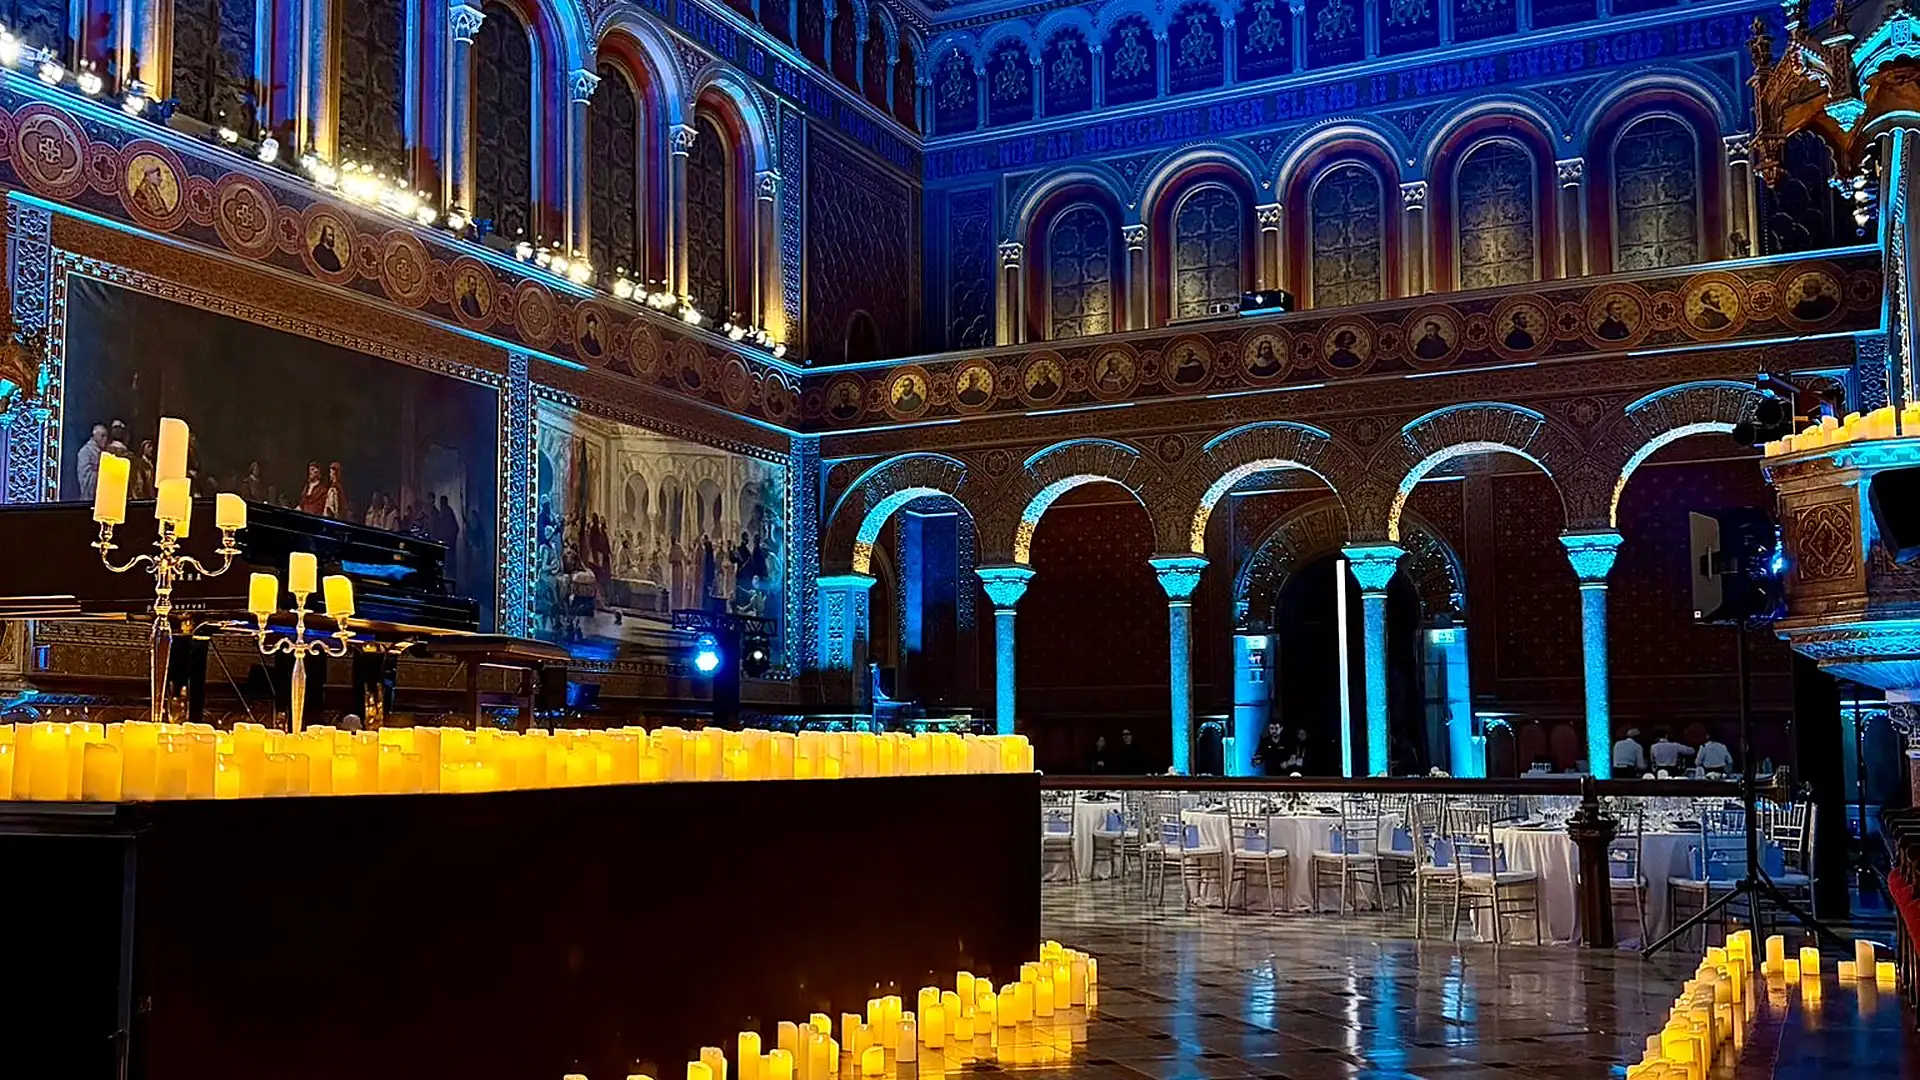
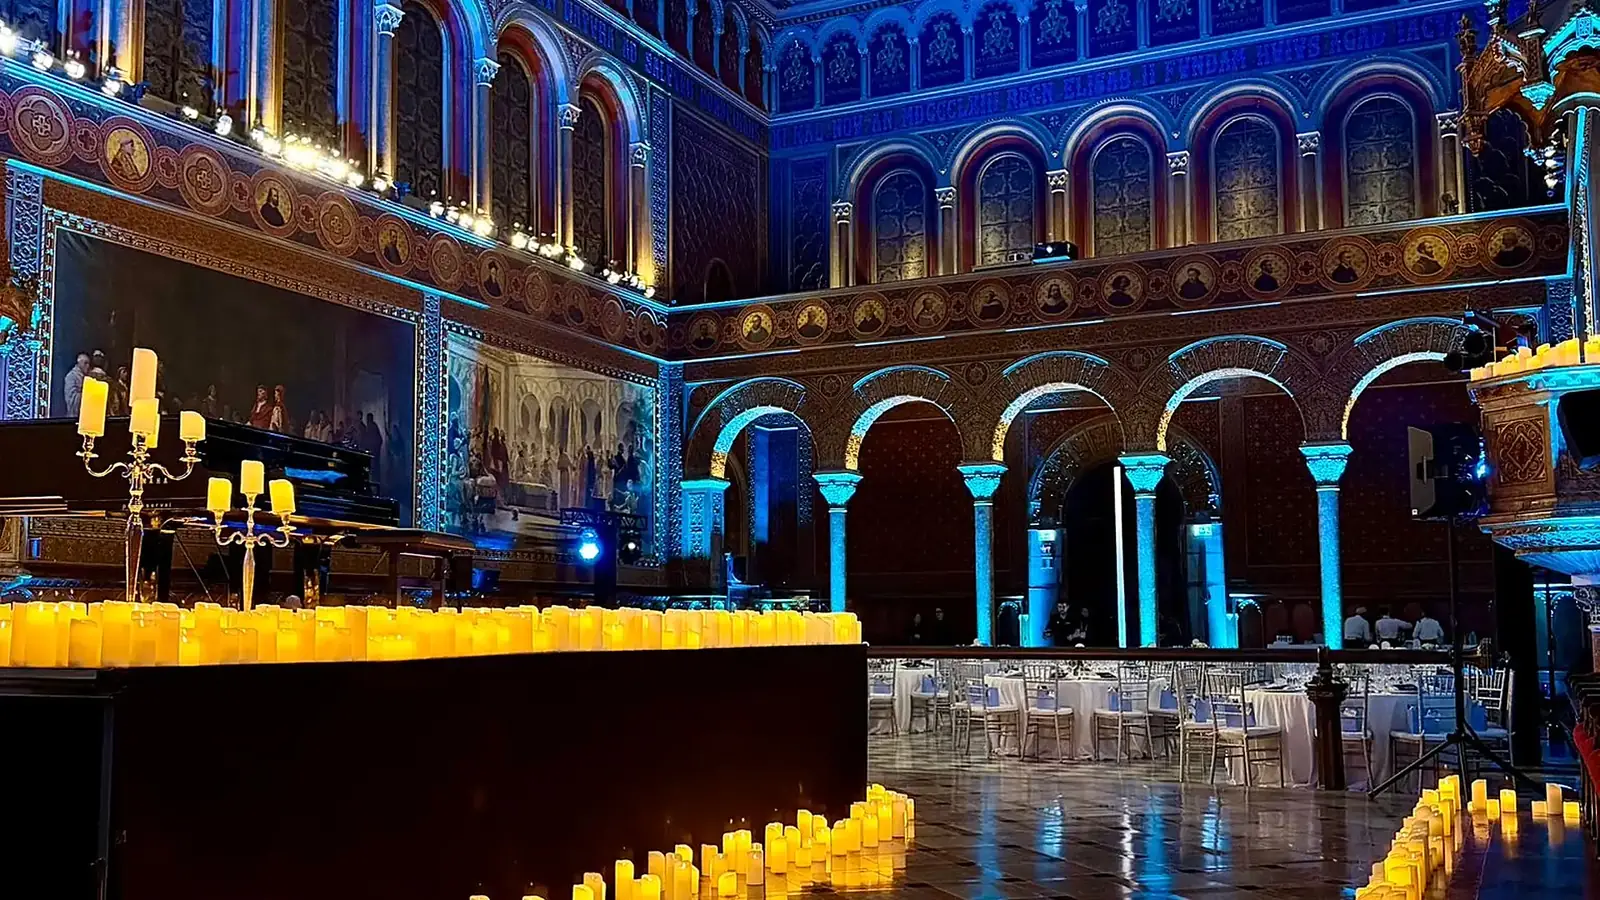
Mejoras portada: fotos en Proyectos, animaciones más rápidas, barra inferior solo móvil sin WhatsApp, portada sin botones, marcas reducidas, títulos genéricos y hero más ligero

diff --git a/index.html b/index.html
@@ -37,7 +37,8 @@
 <link rel="stylesheet" href="/elegante.css?v=40">
 <link rel="stylesheet" href="/ds-motion.css?v=20261016">
 <link rel="stylesheet" href="/ds-show.css?v=20261017">
-<link rel="preload" as="image" href="/portfolio-video-candlelight-poster.webp">
+<link rel="preload" as="image" href="/hero-sala-velas-m.webp" media="(max-width: 760px)" fetchpriority="high">
+<link rel="preload" as="image" href="/hero-sala-velas.webp" media="(min-width: 761px)" fetchpriority="high">
 <script type="application/ld+json">
     {
       "@context": "https://schema.org",
@@ -159,10 +160,6 @@
         <div class="reel-meta-l">
           <p>Escenarios, sonido, iluminación y pantallas LED, con técnicos propios si los necesitas. Base en Barcelona, equipo en toda España.</p>
         </div>
-        <div class="reel-btns">
-          <a class="btn btn--gold reel-cta" href="/simulador.html">Configura tu evento <svg viewBox="0 0 16 16" aria-hidden="true"><path d="M1 8h13M9 3l5 5-5 5" fill="none" stroke="currentColor" stroke-width="1.4"/></svg></a>
-          <a class="btn reel-cta2" href="/proyectos.html">Ver proyectos</a>
-        </div>
       </div>
     </div>
   </div>
@@ -183,10 +180,10 @@
   <div class="wrap">
     <span class="mono reelrow-t">Showreel</span>
     <ul class="reelrow-l">
-      <li><a href="/proyectos.html"><img src="/portfolio-video-candlelight-poster.webp" alt="Concierto Candlelight en espacio histórico" loading="lazy" decoding="async"><span>Candlelight</span></a></li>
+      <li><a href="/proyectos.html"><img src="/portfolio-video-candlelight-poster.webp" alt="Concierto a la luz de las velas en un espacio histórico" loading="lazy" decoding="async"><span>Concierto con velas</span></a></li>
       <li><a href="/proyectos.html"><img src="/portfolio-video-fiesta-poster.webp" alt="Fiesta con iluminación en directo" loading="lazy" decoding="async"><span>Fiesta en directo</span></a></li>
       <li><a href="/proyectos.html"><img src="/portfolio-video-congreso-poster.webp" alt="Escenario de congreso" loading="lazy" decoding="async"><span>Congreso</span></a></li>
-      <li><a href="/proyectos.html"><img src="/portfolio-video-fashionweek-poster.webp" alt="080 Barcelona Fashion Week" loading="lazy" decoding="async"><span>080 Fashion Week</span></a></li>
+      <li><a href="/proyectos.html"><img src="/portfolio-video-fashionweek-poster.webp" alt="Photocall y pasarela de un desfile de moda" loading="lazy" decoding="async"><span>Desfile de moda</span></a></li>
     </ul>
   </div>
 </section>
@@ -225,8 +222,8 @@
 
 <section class="sec brn" aria-labelledby="brn-t">
   <div class="wrap brn-h"><h2 class="brn-t mono" id="brn-t">Trabajamos con equipos de las mejores marcas</h2><a class="link" href="/marcas-y-equipos-tecnicos.html">Ver material técnico <svg viewBox="0 0 16 16" aria-hidden="true"><path d="M1 8h13M9 3l5 5-5 5" fill="none" stroke="currentColor" stroke-width="1.4"/></svg></a></div>
-  <div class="mq"><ul class="mq-t"><li>d&amp;b audiotechnik</li><li>L-Acoustics</li><li>Meyer Sound</li><li>RCF</li><li>Yamaha</li><li>Allen &amp; Heath</li><li>Shure</li><li>Sennheiser</li></ul><ul class="mq-t" aria-hidden="true"><li>d&amp;b audiotechnik</li><li>L-Acoustics</li><li>Meyer Sound</li><li>RCF</li><li>Yamaha</li><li>Allen &amp; Heath</li><li>Shure</li><li>Sennheiser</li></ul></div>
-  <div class="mq mq--rev"><ul class="mq-t"><li>Robe</li><li>Clay Paky</li><li>Chauvet Professional</li><li>Martin by Harman</li><li>GLP</li><li>Astera</li><li>ChamSys</li><li>Prolyte</li><li>Litec</li><li>Layher</li><li>ES Global</li><li>ROE Visual</li><li>Absen</li><li>Unilumin</li><li>Novastar</li></ul><ul class="mq-t" aria-hidden="true"><li>Robe</li><li>Clay Paky</li><li>Chauvet Professional</li><li>Martin by Harman</li><li>GLP</li><li>Astera</li><li>ChamSys</li><li>Prolyte</li><li>Litec</li><li>Layher</li><li>ES Global</li><li>ROE Visual</li><li>Absen</li><li>Unilumin</li><li>Novastar</li></ul></div>
+  <div class="mq"><ul class="mq-t"><li>d&amp;b audiotechnik</li><li>L-Acoustics</li><li>Shure</li><li>Sennheiser</li><li>Allen &amp; Heath</li></ul><ul class="mq-t" aria-hidden="true"><li>d&amp;b audiotechnik</li><li>L-Acoustics</li><li>Shure</li><li>Sennheiser</li><li>Allen &amp; Heath</li></ul></div>
+  <div class="mq mq--rev"><ul class="mq-t"><li>Robe</li><li>Clay Paky</li><li>Chauvet Professional</li><li>ROE Visual</li><li>Layher</li></ul><ul class="mq-t" aria-hidden="true"><li>Robe</li><li>Clay Paky</li><li>Chauvet Professional</li><li>ROE Visual</li><li>Layher</li></ul></div>
   <div class="wrap"><p class="brn-n">Sonido, microfonía, iluminación, escenarios y estructuras, pantallas LED y vídeo. La configuración exacta se ajusta a cada evento y recinto.</p></div>
 </section>
 
@@ -234,6 +231,11 @@
   <div class="wrap">
     <span class="eyebrow rv">Proyectos</span><h2 class="rv" data-words>Montajes reales de nuestro equipo</h2>
     <p class="lead rv mt-m">Conciertos, congresos, galas y desfiles. Mira cómo trabajamos.</p>
+    <ul class="pj-home rv">
+      <li><a href="/proyectos.html"><img src="/portfolio-1-gala.webp" alt="Gala con escenario e iluminación montados por Dreamscape Events" loading="lazy" decoding="async" width="616" height="1100"><span>Gala</span></a></li>
+      <li><a href="/proyectos.html"><img src="/portfolio-2-congreso.webp" alt="Escenario de congreso con pantalla LED central" loading="lazy" decoding="async" width="618" height="1100"><span>Congreso</span></a></li>
+      <li><a href="/proyectos.html"><img src="/portfolio-5-velas.webp" alt="Concierto a la luz de las velas con sonido e iluminación" loading="lazy" decoding="async" width="824" height="1100"><span>Concierto</span></a></li>
+    </ul>
     <div class="btns mt-m rv"><a class="btn btn--gold" href="/proyectos.html">Ver todos los proyectos <svg viewBox="0 0 16 16" aria-hidden="true"><path d="M1 8h13M9 3l5 5-5 5" fill="none" stroke="currentColor" stroke-width="1.4"/></svg></a></div>
   </div>
 </section>

diff --git a/pro.css b/pro.css
@@ -945,3 +945,22 @@ body.lb-on { overflow: hidden; }
 .feat-b h2 { margin: 0; font-size: clamp(26px, 3vw, 40px); }
 .feat-b p { margin: 0; color: var(--paper-2); }
 .feat-b .link svg { width: 14px; height: 14px; }
+
+/* ===== Ajustes nov 2026 ===== */
+/* Animaciones más rápidas y suaves (que nada parezca que carga lento) */
+.rv { transform: translateY(12px); transition: opacity .45s ease, transform .5s ease; }
+.rv-d1 { transition-delay: .04s; } .rv-d2 { transition-delay: .08s; } .rv-d3 { transition-delay: .12s; }
+.words .w > i { transition: transform .45s var(--ease); transition-delay: calc(var(--i, 0) * 25ms); }
+/* Barra inferior fija: solo en móvil, sin WhatsApp */
+@media (min-width: 761px) { .mcta { display: none !important; } .float { bottom: 18px !important; } }
+.mcta a[href*="wa.me"] { display: none !important; }
+/* Proyectos en portada: 3 fotos */
+.pj-home { list-style: none; margin: 32px 0 0; padding: 0; display: grid; grid-template-columns: repeat(3, 1fr); gap: 14px; }
+.pj-home a { position: relative; display: block; overflow: hidden; border-radius: 4px; aspect-ratio: 4 / 5; background: #111; }
+.pj-home img { width: 100%; height: 100%; object-fit: cover; display: block; transition: transform .6s var(--ease); }
+.pj-home a:hover img { transform: scale(1.04); }
+.pj-home span { position: absolute; left: 14px; bottom: 12px; color: #fff; font-size: 13px; letter-spacing: .12em; text-transform: uppercase; text-shadow: 0 1px 8px rgba(0,0,0,.7); }
+@media (max-width: 760px) {
+  .pj-home { grid-auto-flow: column; grid-template-columns: none; grid-auto-columns: 72%; overflow-x: auto; scroll-snap-type: x mandatory; -webkit-overflow-scrolling: touch; padding-bottom: 6px; }
+  .pj-home li { scroll-snap-align: start; }
+}

diff --git a/ds-show.js b/ds-show.js
@@ -716,7 +716,8 @@
         safe(function () { ledReveal(e.target); });
       });
     }, { threshold: .18 });
-    D.querySelectorAll(sel).forEach(function (el) { if (el.querySelector('img, video')) io.observe(el); });
+    /* nov 2026: desactivado el efecto mosaico LED (daba sensación de lentitud) */
+    if (false) D.querySelectorAll(sel).forEach(function (el) { if (el.querySelector('img, video')) io.observe(el); });
   });
   function ledReveal(el) {
     var m = el.querySelector('img, video');
